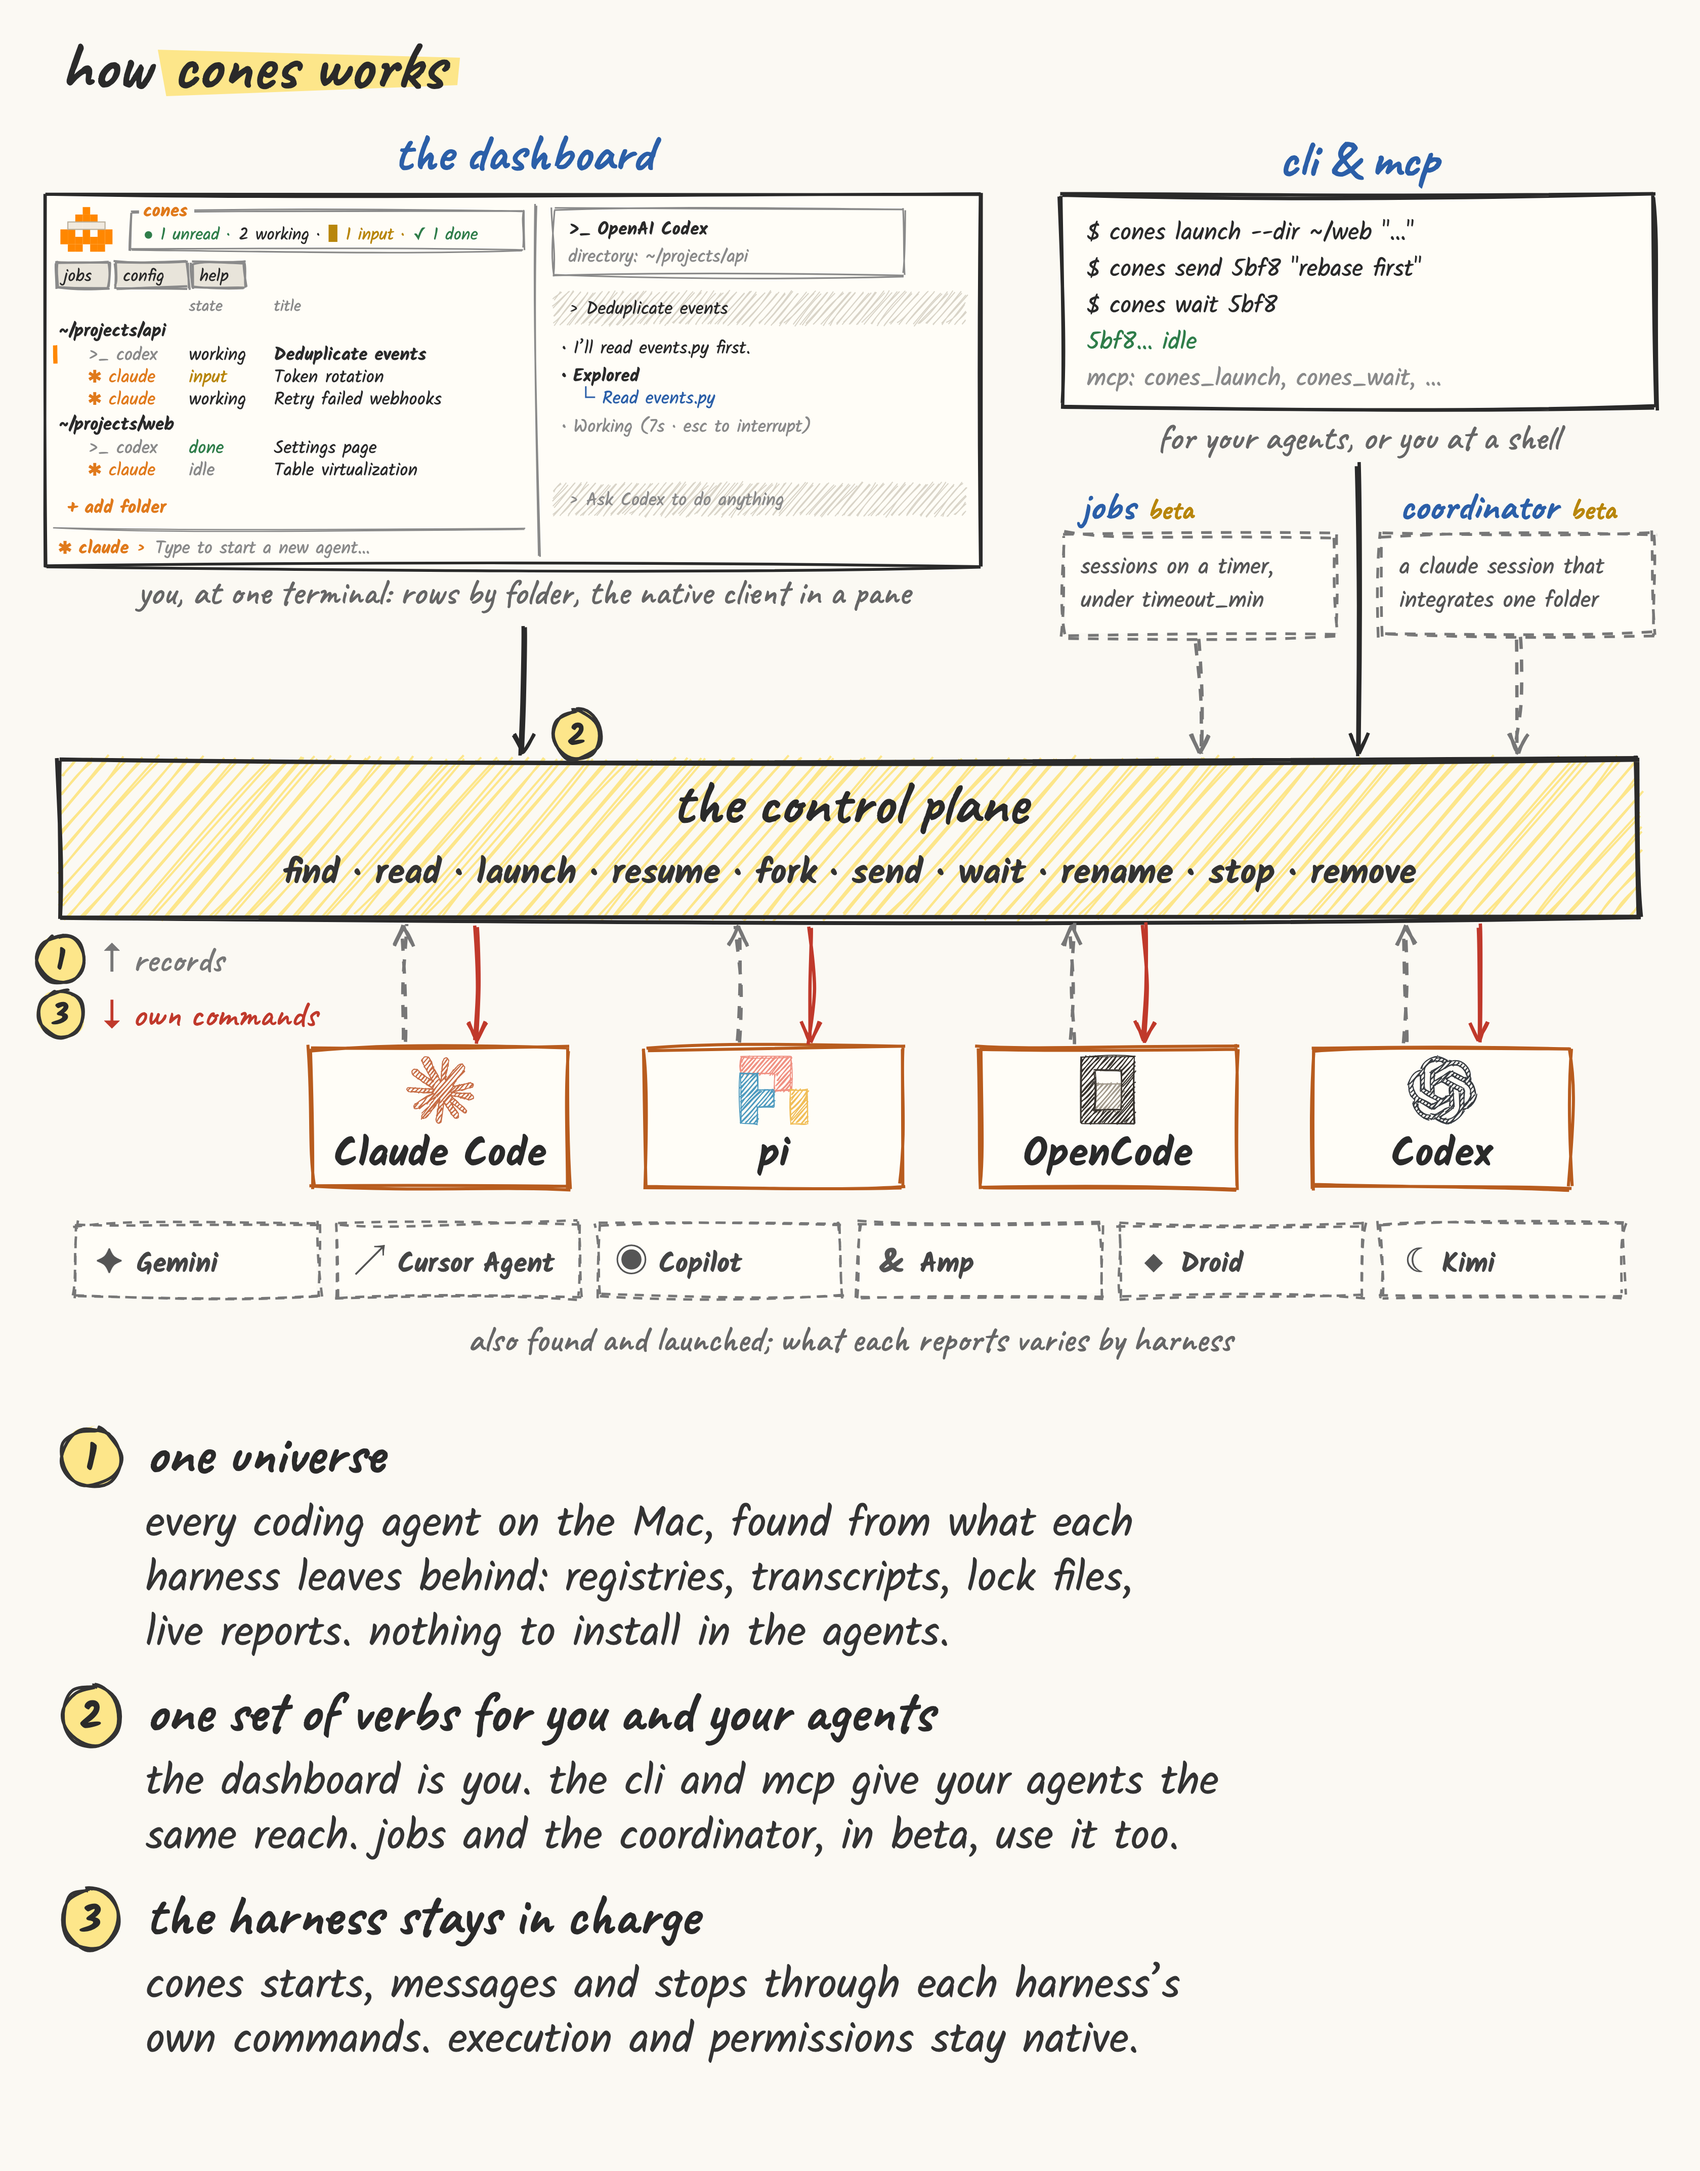
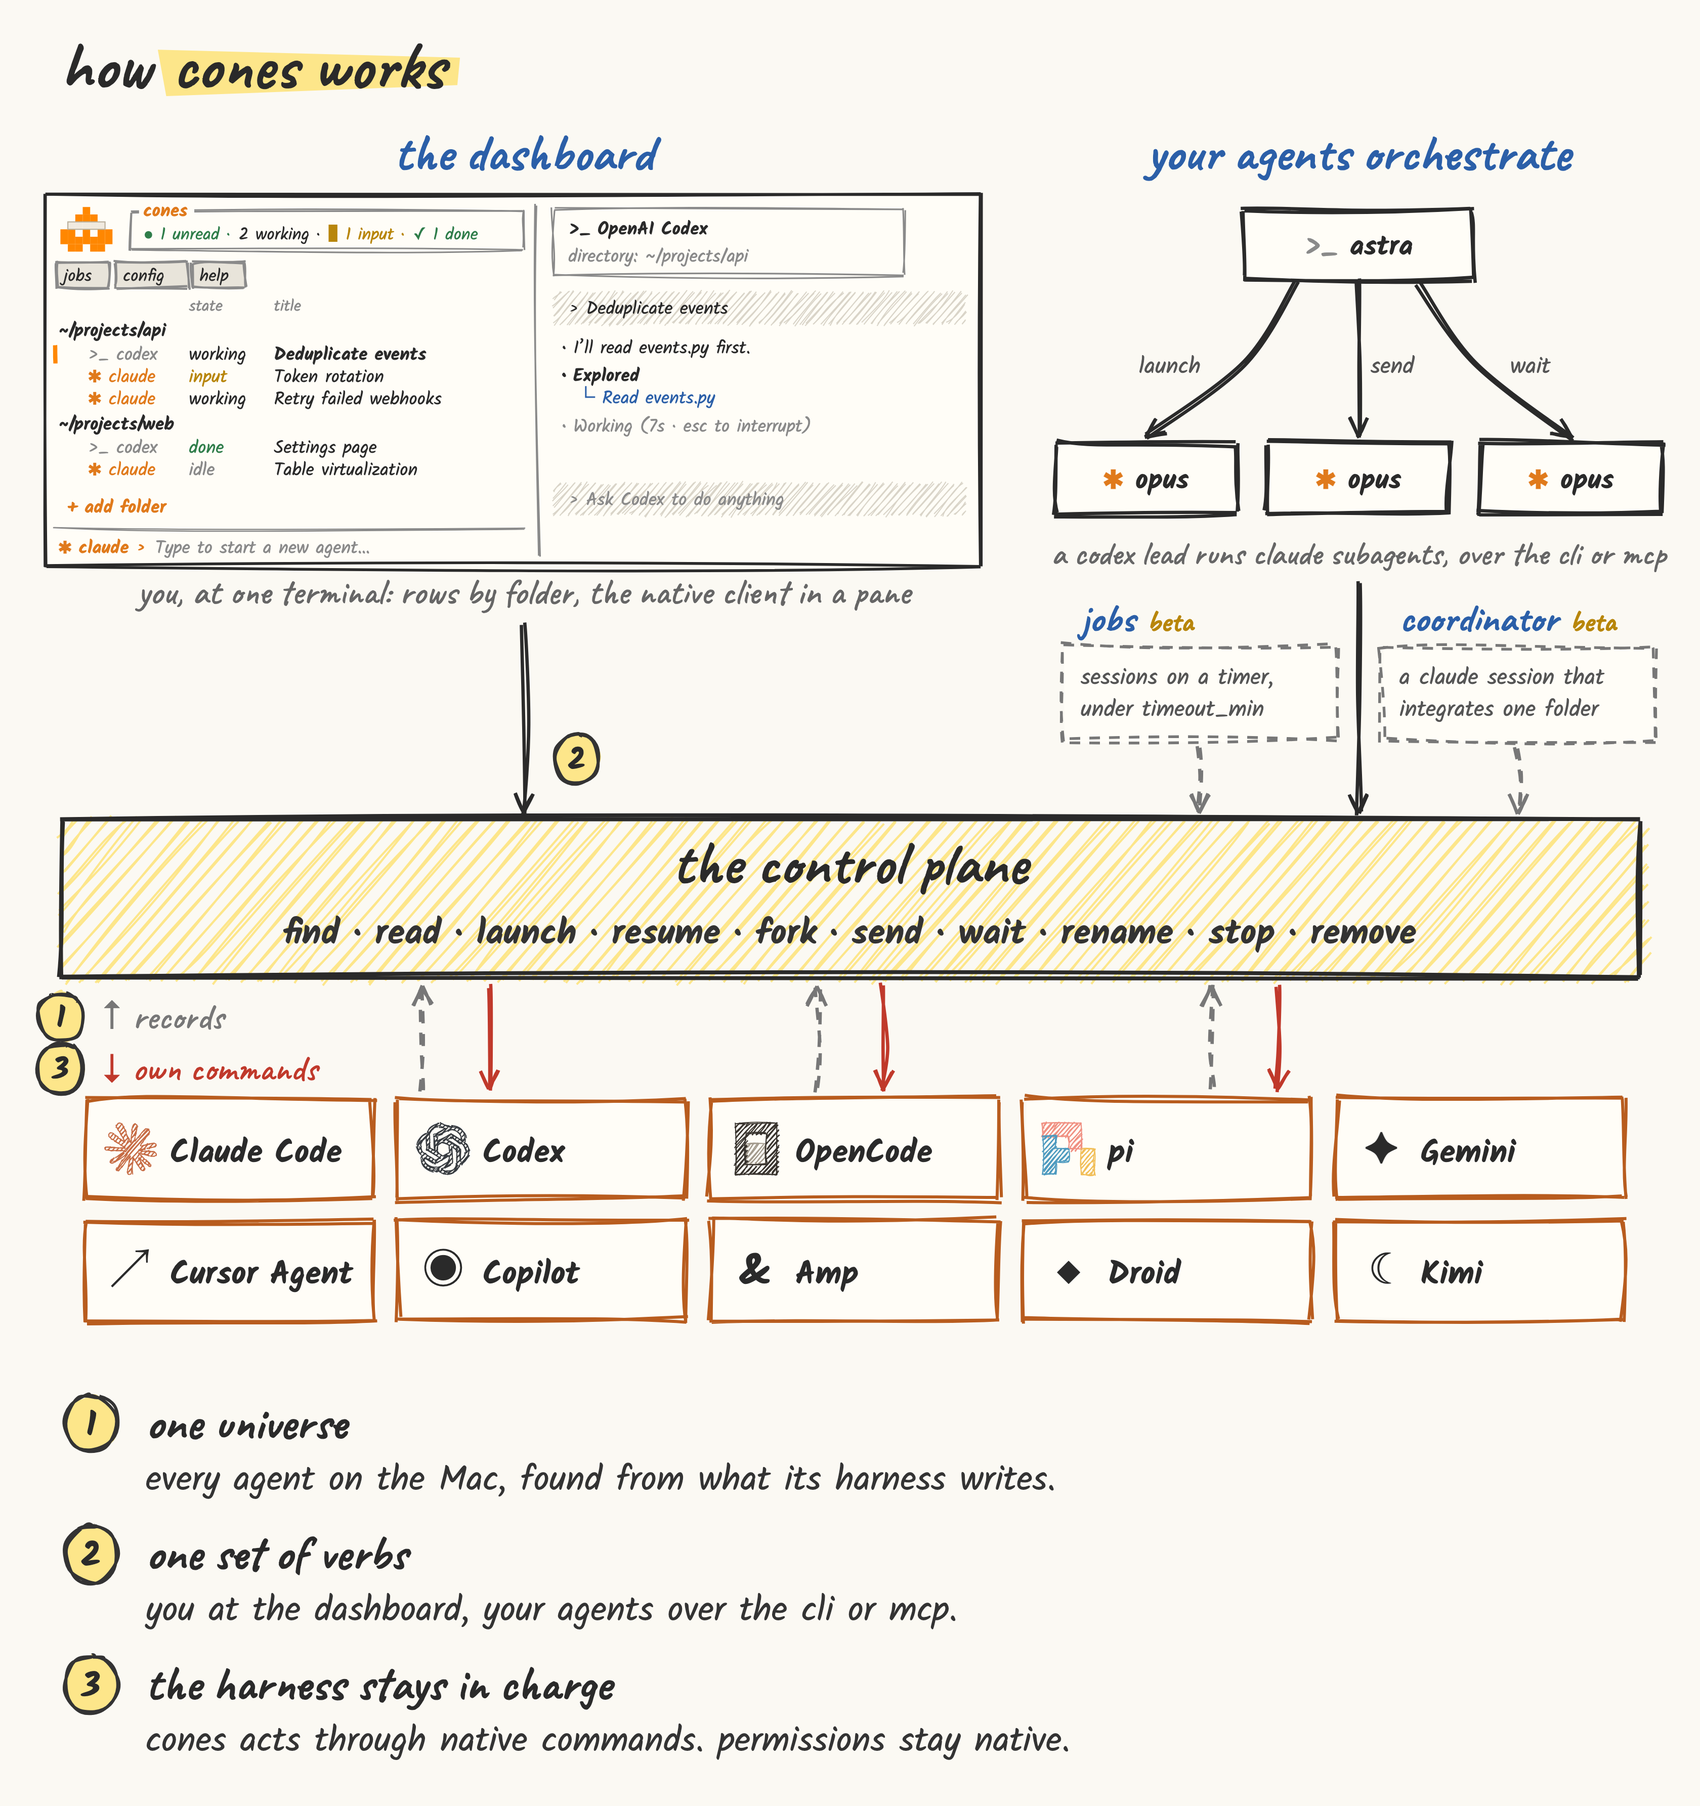
Show agents orchestrating across harnesses, every harness as an equal and a shorter key in the README sketch

Changed region(s): [[0.0, 0.0, 1.0, 0.995], [0.9688, 0.0933, 1.0, 0.1866], [0.9375, 0.5908, 0.9688, 0.6218]]

diff --git a/assets/architecture.html b/assets/architecture.html
@@ -21,7 +21,7 @@ repeatable. The dashboard layout and mascot follow tui.svg and little-feet.txt.
 </style>
 </head>
 <body>
-<div class="wrap"><svg id="s" viewBox="0 0 1120 1430" width="100%" role="img" aria-label="The dashboard and the cli and mcp, with jobs and the coordinator in beta, use one control plane that finds, starts, messages and stops the sessions of Claude Code, pi, OpenCode, Codex and six more harnesses."></svg></div>
+<div class="wrap"><svg id="s" viewBox="0 0 1120 1190" width="100%" role="img" aria-label="You at the dashboard and your agents over the cli or mcp, such as a Codex lead running Claude subagents, use one control plane that finds, starts, messages and stops sessions of ten harnesses through their own commands. Jobs and the coordinator are in beta."></svg></div>
 <!-- Logo sources: claude.com, pi.dev, opencode.ai/favicon.svg, openai.com/favicon.svg -->
 <script type="application/json" id="harness-logos">{"Claude Code":{"box":[0,0,125,125],"paths":[{"d":"M54.375 118.75L56.125 111L58.125 101L59.75 93L61.25 83.125L62.125 79.875L62 79.625L61.375 79.75L53.875 90L42.5 105.375L33.5 114.875L31.375 115.75L27.625 113.875L28 110.375L30.125 107.375L42.5 91.5L50 81.625L54.875 76L54.75 75.25H54.5L21.5 96.75L15.625 97.5L13 95.125L13.375 91.25L14.625 90L24.5 83.125L49.125 69.375L49.5 68.125L49.125 67.5H47.875L43.75 67.25L29.75 66.875L17.625 66.375L5.75 65.75L2.75 65.125L0 61.375L0.25 59.5L2.75 57.875L6.375 58.125L14.25 58.75L26.125 59.5L34.75 60L47.5 61.375H49.5L49.75 60.5L49.125 60L48.625 59.5L36.25 51.25L23 42.5L16 37.375L12.25 34.75L10.375 32.375L9.625 27.125L13 23.375L17.625 23.75L18.75 24L23.375 27.625L33.25 35.25L46.25 44.875L48.125 46.375L49 45.875V45.5L48.125 44.125L41.125 31.375L33.625 18.375L30.25 13L29.375 9.75C29.0417 8.625 28.875 7.375 28.875 6L32.75 0.750006L34.875 0L40.125 0.750006L42.25 2.625L45.5 10L50.625 21.625L58.75 37.375L61.125 42.125L62.375 46.375L62.875 47.75H63.75V47L64.375 38L65.625 27.125L66.875 13.125L67.25 9.125L69.25 4.375L73.125 1.87501L76.125 3.25L78.625 6.875L78.25 9.125L76.875 18.75L73.875 33.875L72 44.125H73.125L74.375 42.75L79.5 36L88.125 25.25L91.875 21L96.375 16.25L99.25 14H104.625L108.5 19.875L106.75 26L101.25 33L96.625 38.875L90 47.75L86 54.875L86.375 55.375H87.25L102.125 52.125L110.25 50.75L119.75 49.125L124.125 51.125L124.625 53.125L122.875 57.375L112.625 59.875L100.625 62.25L82.75 66.5L82.5 66.625L82.75 67L90.75 67.75L94.25 68H102.75L118.5 69.125L122.625 71.875L125 75.125L124.625 77.75L118.25 80.875L109.75 78.875L89.75 74.125L83 72.5H82V73L87.75 78.625L98.125 88L111.25 100.125L111.875 103.125L110.25 105.625L108.5 105.375L97 96.625L92.5 92.75L82.5 84.375H81.875V85.25L84.125 88.625L96.375 107L97 112.625L96.125 114.375L92.875 115.5L89.5 114.875L82.25 104.875L74.875 93.5L68.875 83.375L68.25 83.875L64.625 121.625L63 123.5L59.25 125L56.125 122.625L54.375 118.75Z","color":"#c66c45"}]},"pi":{"box":[165.29,165.29,469.43,469.43],"paths":[{"d":"M165.29 165.29H517.36V400H400V282.65H165.29Z","color":"#F09082"},{"d":"M165.29 282.65H282.65V400H400V517.36H282.65V634.72H165.29Z","color":"#4D9ABF"},{"d":"M517.36 400H634.72V634.72H517.36Z","color":"#F1BE58"}]},"OpenCode":{"box":[128,96,256,320],"paths":[{"d":"M320 224V352H192V224H320Z","color":"#a29a8d"},{"d":"M384 416H128V96H384V416ZM320 160H192V352H320V160Z","color":"#38332e"}]},"Codex":{"box":[29.487,29.964,121.035,119.954],"paths":[{"d":"M75.91 73.628V62.232c0-.96.36-1.68 1.199-2.16l22.912-13.194c3.119-1.8 6.838-2.639 10.676-2.639 14.394 0 23.511 11.157 23.511 23.032 0 .839 0 1.799-.12 2.758l-23.752-13.914c-1.439-.84-2.879-.84-4.318 0L75.91 73.627Zm53.499 44.383v-27.23c0-1.68-.72-2.88-2.159-3.719L97.142 69.55l9.836-5.638c.839-.48 1.559-.48 2.399 0l22.912 13.195c6.598 3.839 11.035 11.995 11.035 19.912 0 9.116-5.397 17.513-13.915 20.992v.001Zm-60.577-23.99-9.836-5.758c-.84-.48-1.2-1.2-1.2-2.16v-26.39c0-12.834 9.837-22.55 23.152-22.55 5.039 0 9.716 1.679 13.676 4.678L70.993 55.516c-1.44.84-2.16 2.039-2.16 3.719v34.787-.002Zm21.173 12.234L75.91 98.339V81.546l14.095-7.917 14.094 7.917v16.793l-14.094 7.916Zm9.056 36.467c-5.038 0-9.716-1.68-13.675-4.678l23.631-13.676c1.439-.839 2.159-2.038 2.159-3.718V85.863l9.956 5.757c.84.48 1.2 1.2 1.2 2.16v26.389c0 12.835-9.957 22.552-23.27 22.552v.001Zm-28.43-26.75L47.72 102.778c-6.599-3.84-11.036-11.996-11.036-19.913 0-9.236 5.518-17.513 14.034-20.992v27.35c0 1.68.72 2.879 2.16 3.718l29.989 17.393-9.837 5.638c-.84.48-1.56.48-2.399 0Zm-1.318 19.673c-13.555 0-23.512-10.196-23.512-22.792 0-.959.12-1.919.24-2.879l23.63 13.675c1.44.84 2.88.84 4.32 0l30.108-17.392v11.395c0 .96-.361 1.68-1.2 2.16l-22.912 13.194c-3.119 1.8-6.837 2.639-10.675 2.639Zm29.748 14.274c14.515 0 26.63-10.316 29.39-23.991 13.434-3.479 22.071-16.074 22.071-28.91 0-8.396-3.598-16.553-10.076-22.43.6-2.52.96-5.039.96-7.557 0-17.153-13.915-29.99-29.989-29.99-3.239 0-6.358.48-9.477 1.56-5.398-5.278-12.835-8.637-20.992-8.637-14.515 0-26.63 10.316-29.39 23.991-13.434 3.48-22.07 16.074-22.07 28.91 0 8.396 3.598 16.553 10.075 22.431-.6 2.519-.96 5.038-.96 7.556 0 17.154 13.915 29.989 29.99 29.989 3.238 0 6.357-.479 9.476-1.559 5.397 5.278 12.835 8.637 20.992 8.637Z","color":"#373b40"}]}}</script>
 <script>
@@ -151,85 +151,73 @@ peekBand(392); mono(612, 413, '› Ask Codex to do anything', DIM);
 parent = svg;
 text(345, 398, 'you, at one terminal: rows by folder, the native client in a pane', { size: 24, hand: true, color: '#666' });
 
-// ---- client 2: the cli and mcp, for your agents or you at a shell
-const card = (x, y, w, h, title, lines, note) => {
-  add(rc.rectangle(x, y, w, h, o({ stroke: INK, strokeWidth: 2.2, fill: '#fffdf7', fillStyle: 'solid' })));
-  text(x + w / 2, y - 12, title, { size: 34, hand: true, weight: 700, color: BLUE });
-  lines.forEach(([s, c, wgt], i) => mono(x + 16, y + 30 + i * 24, s, c, { size: 16, weight: wgt || 400 }));
-  if (note) text(x + w / 2, y + h + 28, note, { size: 24, hand: true, color: '#666' });
+// ---- client 2: your agents orchestrate across harnesses, through the cli or mcp
+text(895, 112, 'your agents orchestrate', { size: 34, hand: true, weight: 700, color: BLUE });
+const node = (cx, y, w, glyph, gc, name) => {
+  add(rc.rectangle(cx - w / 2, y, w, 46, o({ stroke: INK, strokeWidth: 2.2, fill: '#fffdf7', fillStyle: 'solid' })));
+  const g = mono(0, y + 30, glyph, gc, { weight: 700, size: 18 });
+  const n = mono(0, y + 30, name, INK, { weight: 700, size: 18 });
+  const gw = g.getComputedTextLength(), nw = n.getComputedTextLength(), x0 = cx - (gw + 8 + nw) / 2;
+  g.setAttribute('x', x0); n.setAttribute('x', x0 + gw + 8);
 };
-card(700, 128, 390, 140, 'cli & mcp', [
-  ['$ cones launch --dir ~/web "…"', INK],
-  ['$ cones send 5bf8 "rebase first"', INK],
-  ['$ cones wait 5bf8', INK],
-  ['5bf8…   idle', GREEN],
-  ['mcp: cones_launch, cones_wait, …', DIM],
-], 'for your agents, or you at a shell');
+node(895, 138, 150, '>_', DIM, 'astra');
+[[755, 'launch'], [895, 'send'], [1035, 'wait']].forEach(([cx, verb], i) => {
+  node(cx, 292, 120, '✱', CORANGE, 'opus');
+  arrow([[895 + (i - 1) * 40, 186], [(895 + cx) / 2 + (i - 1) * 6, 240], [cx, 288]], INK);
+  mono((895 + cx) / 2 + [-34, 8, 30][i], 246, verb, '#555', { size: 15, anchor: ['end', 'start', 'start'][i] });
+});
+text(895, 372, 'a codex lead runs claude subagents, over the cli or mcp', { size: 22, hand: true, color: '#666' });
 // ---- the two smaller clients, in beta
 const beta = (x, title, lines) => {
-  const y = 352, w = 180, h = 66;
+  const y = 426, w = 180, h = 62;
   add(rc.rectangle(x, y, w, h, o({ stroke: GREY, strokeWidth: 1.8, strokeLineDash: [7, 6], fill: '#fffdf7', fillStyle: 'solid' })));
   const t = text(x + 12, y - 10, title, { size: 26, hand: true, weight: 700, color: BLUE, anchor: 'start' });
   text(x + 20 + t.getComputedTextLength(), y - 10, 'beta', { size: 20, hand: true, weight: 700, color: AMBER, anchor: 'start' });
-  lines.forEach((l, i) => mono(x + 12, y + 26 + i * 22, l, '#555', { size: 15 }));
+  lines.forEach((l, i) => mono(x + 12, y + 25 + i * 21, l, '#555', { size: 15 }));
 };
 beta(700, 'jobs', ['sessions on a timer,', 'under timeout_min']);
 beta(910, 'coordinator', ['a claude session that', 'integrates one folder']);
 
 // ---- the control plane
-const CP_Y = 500;
+const CP_Y = 540;
 add(rc.rectangle(40, CP_Y, 1040, 104, o({ stroke: INK, strokeWidth: 2.6, fill: '#fde68a', fillStyle: 'hachure', hachureGap: 8, fillWeight: 1.4 })));
 text(560, CP_Y + 42, 'the control plane', { size: 40, hand: true, weight: 700 });
 text(560, CP_Y + 82, 'find · read · launch · resume · fork · send · wait · rename · stop · remove',
   { size: 23, weight: 700, color: '#333' });
 // Every client reaches the sessions only through it.
-arrow([[345, 412], [346, 460], [345, CP_Y - 4]], INK);
-arrow([[895, 306], [896, 400], [895, CP_Y - 4]], INK);
-arrow([[790, 422], [791, 460], [790, CP_Y - 4]], GREY, { dashed: true });
-arrow([[1000, 422], [1001, 460], [1000, CP_Y - 4]], GREY, { dashed: true });
-badge(380, 484, '2');
+arrow([[345, 412], [346, 480], [345, CP_Y - 4]], INK);
+arrow([[895, 384], [896, 460], [895, CP_Y - 4]], INK);
+arrow([[790, 492], [791, 512], [790, CP_Y - 4]], GREY, { dashed: true });
+arrow([[1000, 492], [1001, 512], [1000, CP_Y - 4]], GREY, { dashed: true });
+badge(380, 500, '2');
 
-// ---- the harnesses: records up, native commands down
-['Claude Code', 'pi', 'OpenCode', 'Codex'].forEach((n, i) => {
-  const cx = [290, 510, 730, 950][i];
-  box(cx - 85, 690, 170, 92, ORANGE, '#fffdf7', { fillStyle: 'solid' });
-  logo(n, cx, 718, 44);
-  text(cx, 768, n, { size: 26, weight: 700 });
-  arrow([[cx - 24, 686], [cx - 23, 650], [cx - 24, CP_Y + 110]], GREY, { dashed: true });
-  arrow([[cx + 24, CP_Y + 110], [cx + 25, 650], [cx + 24, 686]], RED);
+// ---- the harnesses, all through the same plane: records up, native commands down
+const H_Y = 724;
+[['Claude Code'], ['Codex'], ['OpenCode'], ['pi'], ['Gemini', '✦'],
+ ['Cursor Agent', '↗'], ['Copilot', '◉'], ['Amp', '&'], ['Droid', '◆'], ['Kimi', '☾']].forEach(([n, g], i) => {
+  const x = 56 + (i % 5) * 206, y = H_Y + Math.floor(i / 5) * 80;
+  box(x, y, 190, 66, ORANGE, '#fffdf7', { fillStyle: 'solid' });
+  if (g) text(x + 30, y + 42, g, { size: 28, weight: 700 }); else logo(n, x + 30, y + 33, 34);
+  text(x + 56, y + 42, n, { size: 21, weight: 700, anchor: 'start' });
 });
-[['✦', 'Gemini'], ['↗', 'Cursor Agent'], ['◉', 'Copilot'], ['&', 'Amp'], ['◆', 'Droid'], ['☾', 'Kimi']]
-  .forEach(([g, n], i) => {
-    const x = 50 + i * 172;
-    add(rc.rectangle(x, 806, 160, 48, o({ stroke: GREY, strokeWidth: 1.6, strokeLineDash: [6, 5], fill: '#fffdf7', fillStyle: 'solid' })));
-    text(x + 22, 838, g, { size: 22, weight: 700, color: '#555' });
-    text(x + 40, 838, n, { size: 18, weight: 700, color: '#444', anchor: 'start' });
-  });
-text(560, 890, 'also found and launched; what each reports varies by harness', { size: 24, hand: true, color: '#666' });
-text(66, 640, '↑ records', { size: 24, hand: true, color: GREY, anchor: 'start' });
-text(66, 676, '↓ own commands', { size: 24, hand: true, color: RED, anchor: 'start' });
-badge(40, 632, '1');
-badge(40, 668, '3');
+[300, 560, 820].forEach(cx => {
+  arrow([[cx - 22, H_Y - 6], [cx - 21, 690], [cx - 22, CP_Y + 110]], GREY, { dashed: true });
+  arrow([[cx + 22, CP_Y + 110], [cx + 23, 690], [cx + 22, H_Y - 6]], RED);
+});
+text(66, 678, '↑ records', { size: 24, hand: true, color: GREY, anchor: 'start' });
+text(66, 712, '↓ own commands', { size: 24, hand: true, color: RED, anchor: 'start' });
+badge(40, 670, '1');
+badge(40, 704, '3');
 
-const key = (y, n, a, lines) => {
-  badge(60, y - 10, n, 40);
-  text(96, y, a, { size: 38, hand: true, weight: 700, anchor: 'start' });
-  lines.forEach((s, i) => text(96, y + 42 + i * 36, s, { size: 28, color: '#333', anchor: 'start' }));
+const key = (y, n, a, body) => {
+  badge(60, y - 10, n, 36);
+  text(96, y, a, { size: 32, hand: true, weight: 700, anchor: 'start' });
+  text(96, y + 34, body, { size: 23, color: '#333', anchor: 'start' });
 };
 // Sources: docs/architecture.md (The control plane), docs/harness.md (Discovery).
-key(970, '1', 'one universe', [
-  'every coding agent on the Mac, found from what each',
-  'harness leaves behind: registries, transcripts, lock files,',
-  'live reports. nothing to install in the agents.'
-]);
-key(1140, '2', 'one set of verbs for you and your agents', [
-  'the dashboard is you. the cli and mcp give your agents the',
-  'same reach. jobs and the coordinator, in beta, use it too.'
-]);
-key(1274, '3', 'the harness stays in charge', [
-  'cones starts, messages and stops through each harness’s',
-  'own commands. execution and permissions stay native.'
-]);
+key(948, '1', 'one universe', 'every agent on the Mac, found from what its harness writes.');
+key(1034, '2', 'one set of verbs', 'you at the dashboard, your agents over the cli or mcp.');
+key(1120, '3', 'the harness stays in charge', 'cones acts through native commands. permissions stay native.');
 });
 </script>
 </body>

diff --git a/README.md b/README.md
@@ -28,6 +28,6 @@ Existing sessions appear automatically. `Enter` opens one; `Ctrl+Z` returns to t
 
 To start work, select `+ add folder` and enter a project directory. Choose a harness with `Shift+Tab`, type an instruction, and press `Enter`.
 
-<p align="center"><a href="assets/architecture.png"><img src="assets/architecture.png" alt="The dashboard and the cli and mcp, with jobs and the coordinator in beta, share one control plane that finds, starts, messages and stops Claude Code, pi, OpenCode, Codex and six more harnesses through their own commands" width="100%"></a></p>
+<p align="center"><a href="assets/architecture.png"><img src="assets/architecture.png" alt="You at the dashboard and your agents over the cli or mcp, such as a Codex lead running Claude subagents, share one control plane that finds, starts, messages and stops sessions of ten harnesses through their own commands" width="100%"></a></p>
 
 [Dashboard](docs/dashboard.md) · [Commands](docs/cli.md) · [Scheduled jobs](docs/jobs.md) · [Harness support](docs/harness.md) · [Architecture](docs/architecture.md) · [Comparisons](docs/comparisons/README.md)
